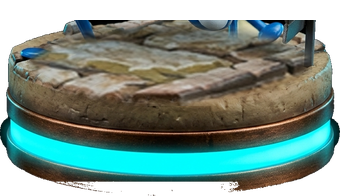
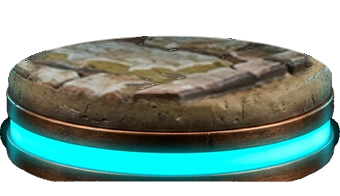
fix(hub): eliminate background PNG cutout artifacts and smooth 3D centerpiece pedestal (v667)

diff --git a/sw.js b/sw.js
@@ -1,4 +1,4 @@
-const CACHE_NAME = "pokeduel-pwa-v666";
+const CACHE_NAME = "pokeduel-pwa-v667";
 const CORE_ASSETS = [
   "./",
   "./index.html",
@@ -9,6 +9,7 @@ const CORE_ASSETS = [
   "./assets/arena/carmonte_arena.jpg",
   "./assets/ui/banana_wheel.jpg",
   "./assets/ui/pokeduel_logo.webp",
+  "./assets/ui/centerpiece_pedestal_3d.png",
   "./assets/ui/tutorial_goal_board.png",
   "./js/data/i18n.js",
   "./js/data/sprites.js",
